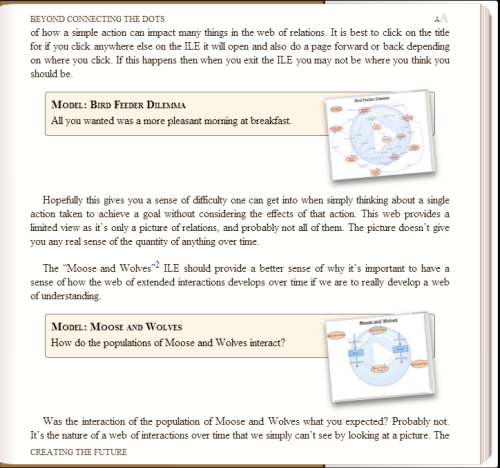
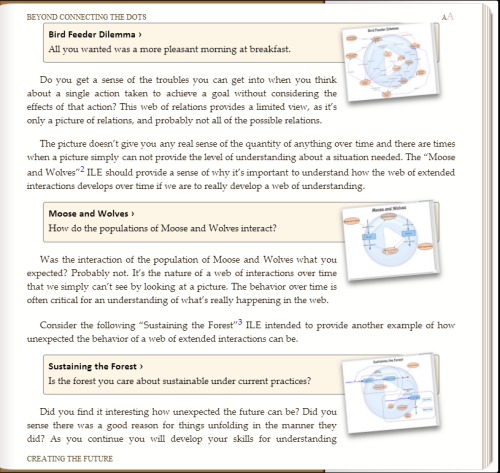
Initial Fixes

diff --git a/Applied/applied.md b/Applied/applied.md
@@ -171,22 +171,22 @@ Career education partnerships becomes one possible cure for the profoundly disco
 
 The following three models were developed by Matt Sadinsky, CEO at [Prequalified Ready Employees for Power International](http://www.prepintl.com/).
 
-The first insight in the series, "Traditional Career Model"^[Traditional Career Model [http://insightmaker.com/insight/8727](http://insightmaker.com/insight/8727)], is a simple, more traditional naive model of how education works, with increased lifetime earnings from attending college.
+The first insight in the series, "Traditional Career Model"^[Traditional Career Model [http://insightmaker.com/insight/9799](http://insightmaker.com/insight/9799)], is a simple, more traditional naive model of how education works, with increased lifetime earnings from attending college.
 
 # Model
-{"title": "Traditional Career Model", "description": "Comparing the potential for No High School Education, High School Education, and College Education earnings/savings potential.", "load": "http://insightmaker.com/insight/8727"}
+{"title": "Traditional Career Model", "description": "Comparing the potential for No High School Education, High School Education, and College Education earnings/savings potential.", "load": "http://insightmaker.com/insight/9799"}
 # End Model
 
-The second insight in the series, "Loan Cost Model"^[Loan Cost Model [http://insightmaker.com/insight/8727](http://insightmaker.com/insight/8729)], takes into account the potential cost of student loans in the event that the student does not complete college or does not succeed in their career. 
+The second insight in the series, "Loan Cost Model"^[Loan Cost Model [http://insightmaker.com/insight/9801](http://insightmaker.com/insight/9801)], takes into account the potential cost of student loans in the event that the student does not complete college or does not succeed in their career. 
 
 # Model
-{"title": "Loans Cost", "description": "Comparing the cost of switching careers mid stream.", "load": "http://insightmaker.com/insight/8729"}
+{"title": "Loan Cost Model", "description": "Comparing the cost of switching careers mid stream.", "load": "http://insightmaker.com/insight/9801"}
 # End Model
 
-The third insight in the series, "Savings Over Time"^[Savings Over Time [http://insightmaker.com/insight/8727](http://insightmaker.com/insight/8735)], illustrates the difference in savings over time for a doctor or for a skilled worker who went to a trade school.
+The third insight in the series, "Savings Over Time"^[Savings Over Time [http://insightmaker.com/insight/9802](http://insightmaker.com/insight/9802)], illustrates the difference in savings over time for a doctor or for a skilled worker who went to a trade school.
 
 # Model
-{"title": "Savings Over Time", "description": "Comparing the savings potential for a doctor and a skilled worker.", "load": "http://insightmaker.com/insight/8735"}
+{"title": "Savings Over Time", "description": "Comparing the savings potential for a doctor and a skilled worker.", "load": "http://insightmaker.com/insight/9802"}
 # End Model
 
 What are the implications for K-12 and college advising? Perhaps career choice decisions are one of the most relevant areas of strategic thinking in which any parent and counselor could involve their children and students. See Mike Rowe's website [Proundly Disconnected](http://profoundlydisconnected.com/alternative-education/) for more information on the importance of reconnecting education to more effective career choices. Also watch [Bill Maher interview Mike Rowe](http://roadshow.slate.com/mike-rowe-on-bill-maher-time-to-close-the-skills-gap/).
@@ -221,7 +221,7 @@ What we hope you find so amazing about dynamic models is that they allow you to 
 
 ## Hospital Fixes that Fail ##
 
-The "Hospital Fixes that Fail"^[Hospital Fixes that Fail [http://insightmaker.com/insight/9826](http://insightmaker.com/insight/9826) model presents another example of how our best (short-sighted) attempts to do something that seems logical can produce results that are counterproductive to what we wanted to accomplish. 
+The "Hospital Fixes that Fail"^[Hospital Fixes that Fail [http://insightmaker.com/insight/9826](http://insightmaker.com/insight/9826)] model presents another example of how our best (short-sighted) attempts to do something that seems logical can produce results that are counterproductive to what we wanted to accomplish. 
 
 # Model
 {"title": "Hospital Fixes that Fail", "description": "At times our best efforts defeat our intent.", "load": "http://insightmaker.com/insight/9826"}

diff --git a/Preface/preface.md b/Preface/preface.md
@@ -67,7 +67,15 @@ If you look closely at Figure 8 you'll notice an **= equal sign** and an **i** v
 
 You can open the **Configuration Panel**, or use mouseover, to look at any element, at any time during the storytelling of a model.
 
-There are numerous exercises presented. Some of these are presented with answers you can review and others are simply presented as questions related to concepts that it is considered appropriate to reflect on. Doing this reflection with others can be very beneficial.
+There are numerous exercises presented as in Figure 9. Some of these are presented with answers you can review and others are simply presented as questions related to concepts that it is considered appropriate to reflect on. Doing this reflection with others can be very beneficial.
+
+![Figure 9. Exercise](00-intro-09.png)
+
+If there is an answer then the inset will have an **Answer Available** link, which when clicked, will take you to the answers section as depicted in Figure 10.
+
+![Figure 10. Exercise Answer](00-intro-10.png)
+
+Once you have read the answer you can click the exercise number to return the to place in the text where the actual exercise is.
 
 There are a couple of the implications of this being an interactive learning environment rather than a development environment are:
 
